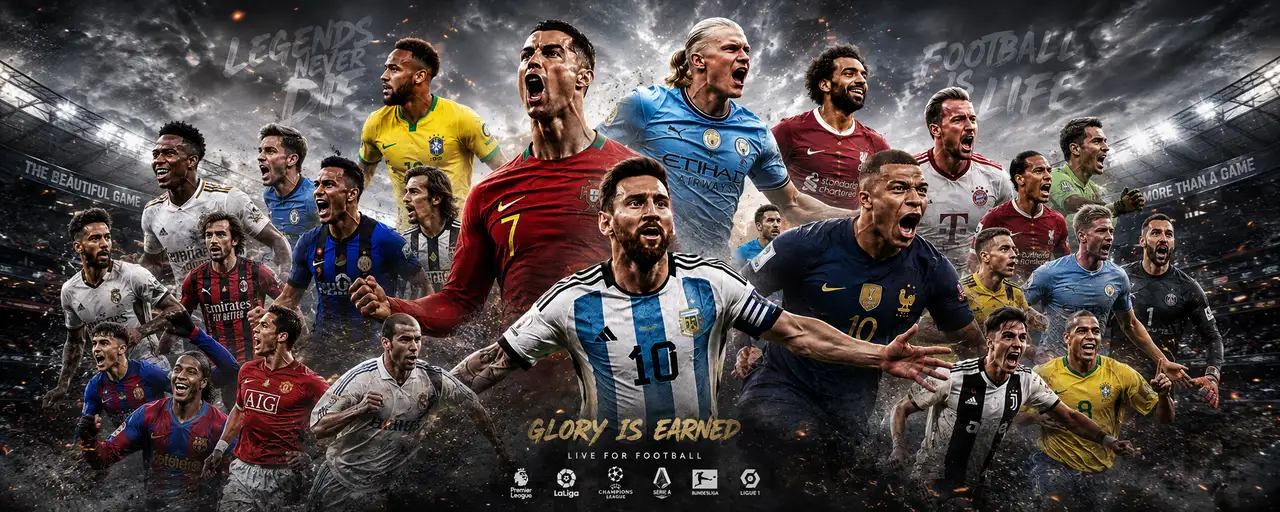
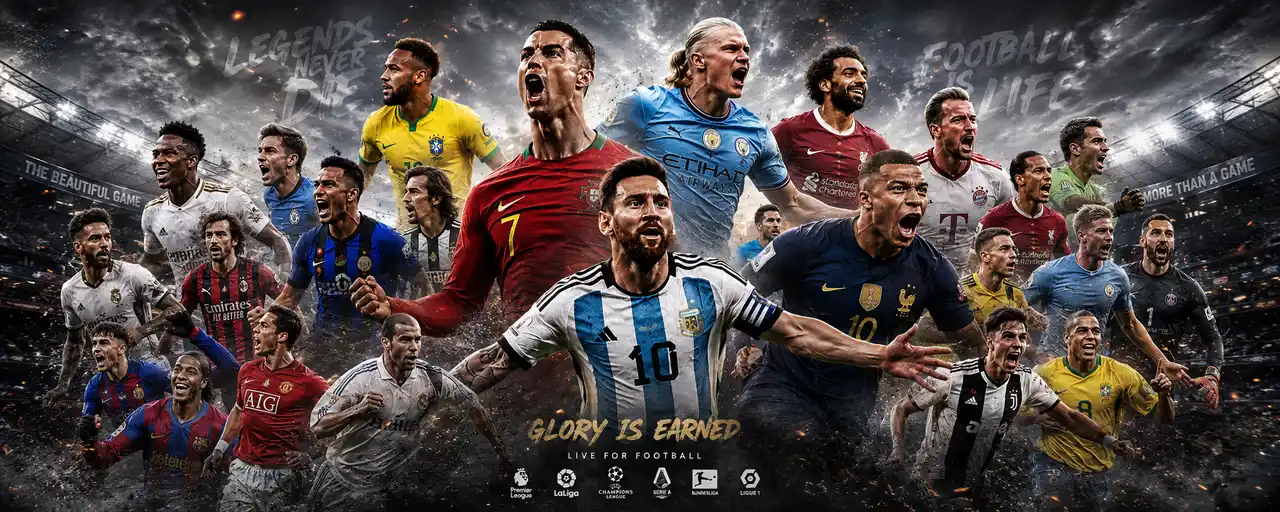
fix(perf): fix oversized ad image, recompress no-source, preload correct font weight (#87)
- AdBanner: add `sizes` prop (default stays "100vw") so callers can
  pass correct responsive sizes instead of always fetching viewport-width
- video.tsx: corner logo (w-16/48/32px) now uses sizes="(max-width:640px) 32px,
  (max-width:768px) 48px, 64px" — was serving 1280px image for a 64px slot
- img-no-source.webp: recompress q60→q40, 126KB→98KB (at 30% opacity
  quality loss is imperceptible)
- layout.tsx: reorder Oswald weights/subsets so next/font preloads
  weight-700 Vietnamese (most-used, above-fold) instead of weight-400 Latin

diff --git a/src/components/ui/ad-banner.tsx b/src/components/ui/ad-banner.tsx
@@ -17,6 +17,7 @@ interface AdBannerProps {
   rounded?: string
   className?: string
   skeletonClassName?: string
+  sizes?: string
   "aria-label"?: string
 }
 
@@ -24,10 +25,12 @@ function AdMedia({
   src,
   fallback,
   rounded,
+  sizes,
 }: {
   src: string | StaticImageData | null
   fallback: string | StaticImageData | null
   rounded?: string
+  sizes?: string
 }) {
   const { value: errored, on: setErrored } = useBoolean()
   const url = errored && fallback ? fallback : src
@@ -54,7 +57,7 @@ function AdMedia({
       alt=""
       width={0}
       height={0}
-      sizes="100vw"
+      sizes={sizes ?? "100vw"}
       className={cn("h-auto w-full", rounded)}
       onError={() => fallback && !errored && setErrored()}
     />
@@ -69,6 +72,7 @@ export function AdBanner({
   rounded = "",
   className,
   skeletonClassName,
+  sizes,
   "aria-label": ariaLabel = "Quảng cáo",
 }: AdBannerProps) {
   if (isLoading) {
@@ -79,7 +83,12 @@ export function AdBanner({
   if (!activeSrc) return null
 
   const media = (
-    <AdMedia src={activeSrc as string} fallback={fallback as string} rounded={rounded} />
+    <AdMedia
+      src={activeSrc as string}
+      fallback={fallback as string}
+      rounded={rounded}
+      sizes={sizes}
+    />
   )
 
   if (href) {

diff --git a/src/components/ui/video.tsx b/src/components/ui/video.tsx
@@ -239,14 +239,16 @@ export function VideoPlayer({
         fallback={videoBanner}
         className="video-ad-banner absolute bottom-0 left-0 z-10 w-full"
         skeletonClassName="aspect-[1200/58]"
+        sizes="100vw"
       />
-      {/* Vị trí 1: banner góc trái trên */}
+      {/* Vị trí 1: banner góc trái trên — w-16=64px, max-sm:w-8=32px */}
       <AdBanner
         src={playerOverlay?.[1]?.mediaPc || null}
         href={playerOverlay?.[1]?.jumpUrl || null}
         fallback={imgLiveSmall}
         className="video-ad-banner absolute top-1 left-1 z-10 w-16 max-md:w-12 max-sm:w-8"
         skeletonClassName="aspect-[60/25]"
+        sizes="(max-width: 640px) 32px, (max-width: 768px) 48px, 64px"
       />
     </div>
   )

diff --git a/src/app/layout.tsx b/src/app/layout.tsx
@@ -13,8 +13,8 @@ import "./globals.css"
 
 const oswald = Oswald({
   variable: "--font-oswald",
-  subsets: ["latin", "vietnamese"],
-  weight: ["400", "500", "600", "700"],
+  subsets: ["vietnamese", "latin"],
+  weight: ["700", "600", "500", "400"],
   display: "swap",
 })
 
